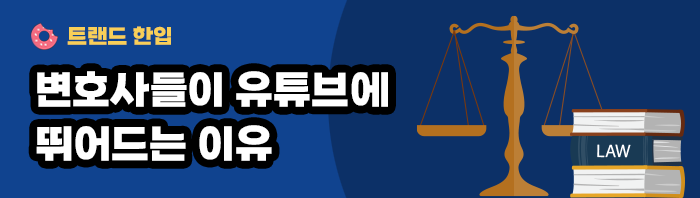
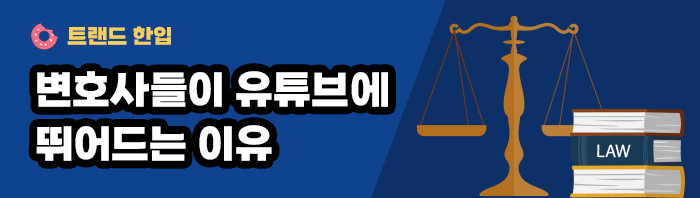
Update newcurrents.css

Changed region(s): [[0.45, 0.0, 0.66, 1.0]]

diff --git a/css/newcurrents.scss b/css/newcurrents.scss
@@ -400,6 +400,15 @@ section.sns {
 
   background: linear-gradient(180deg, rgb(201, 24, 127) 0%, #ffb300 100%);
   box-shadow: 0 0 10px rgba(0, 0, 0, 0.7);
+  > div {
+    position: absolute;
+    top: 0;
+    left: 0;
+    z-index: 0;
+    width: 100vw;
+    height: 300px;
+    background-image: url(./../images/파티클.png);
+  }
 
   .container {
     display: block;
@@ -407,8 +416,10 @@ section.sns {
     > .sns_img {
       position: absolute;
       top: 0;
+      z-index: 1;
       width: 1080px;
       height: 300px;
+
       background-attachment: fixed;
       background-repeat: no-repeat;
       background-position: 70% center;

diff --git a/css/newcurrents.css b/css/newcurrents.css
@@ -367,6 +367,16 @@ section.sns {
   box-shadow: 0 0 10px rgba(0, 0, 0, 0.7);
 }
 
+section.sns > div {
+  position: absolute;
+  top: 0;
+  left: 0;
+  z-index: 0;
+  width: 100vw;
+  height: 300px;
+  background-image: url(./../images/파티클.png);
+}
+
 section.sns .container {
   display: block;
 }
@@ -374,6 +384,7 @@ section.sns .container {
 section.sns .container > .sns_img {
   position: absolute;
   top: 0;
+  z-index: 1;
   width: 1080px;
   height: 300px;
   background-attachment: fixed;

diff --git a/index.html b/index.html
@@ -177,6 +177,7 @@
       </section>
 
       <section class="sns">
+        <div></div>
         <a href="#" class="container">
           <div class="sns_img"></div>
           <h2>
